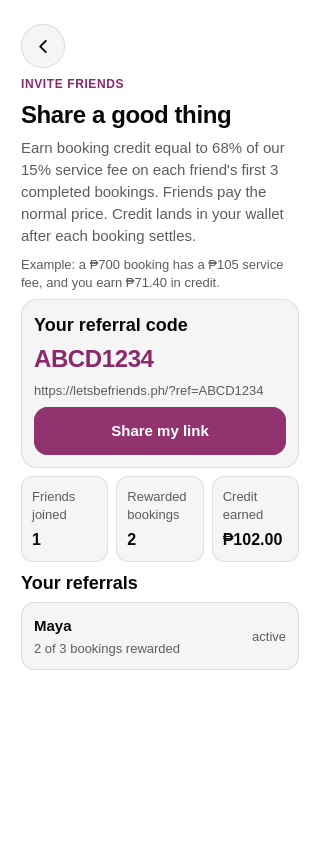
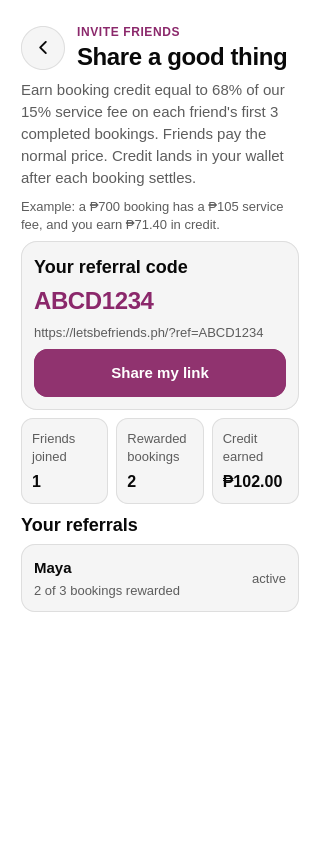
fix(mobile): align back button with referral title

diff --git a/apps/mobile/src/features/referral/ReferralsView.tsx b/apps/mobile/src/features/referral/ReferralsView.tsx
@@ -51,11 +51,13 @@ export function ReferralsView({
 
   const header = (
     <View style={styles.header}>
-      <View style={styles.topBar}>
+      <View style={styles.titleRow}>
         <BackButton label="Go back" onPress={onBack} />
+        <View style={styles.titleCopy}>
+          <AppText variant="label" color={theme.colors.socialText}>INVITE FRIENDS</AppText>
+          <AppText variant="title">Share a good thing</AppText>
+        </View>
       </View>
-      <AppText variant="label" color={theme.colors.socialText}>INVITE FRIENDS</AppText>
-      <AppText variant="title">Share a good thing</AppText>
       <AppText color={theme.colors.textMuted}>
         Earn booking credit equal to 68% of our 15% service fee on each friend's first 3 completed bookings. Friends pay the normal price. Credit lands in your wallet after each booking settles.
       </AppText>
@@ -143,7 +145,8 @@ function Metric({ label, value }: { label: string; value: string }) {
 const styles = StyleSheet.create({
   content: { paddingHorizontal: 5, paddingBottom: 32 },
   header: { gap: 8, paddingTop: 8 },
-  topBar: { flexDirection: 'row', alignItems: 'center' },
+  titleRow: { flexDirection: 'row', alignItems: 'center', gap: 12 },
+  titleCopy: { flex: 1, gap: 2 },
   card: { borderWidth: 1, borderRadius: 16, padding: 12, gap: 8 },
   metrics: { flexDirection: 'row', gap: 8 },
   metric: { flex: 1, borderWidth: 1, borderRadius: 12, padding: 10, gap: 4 },
